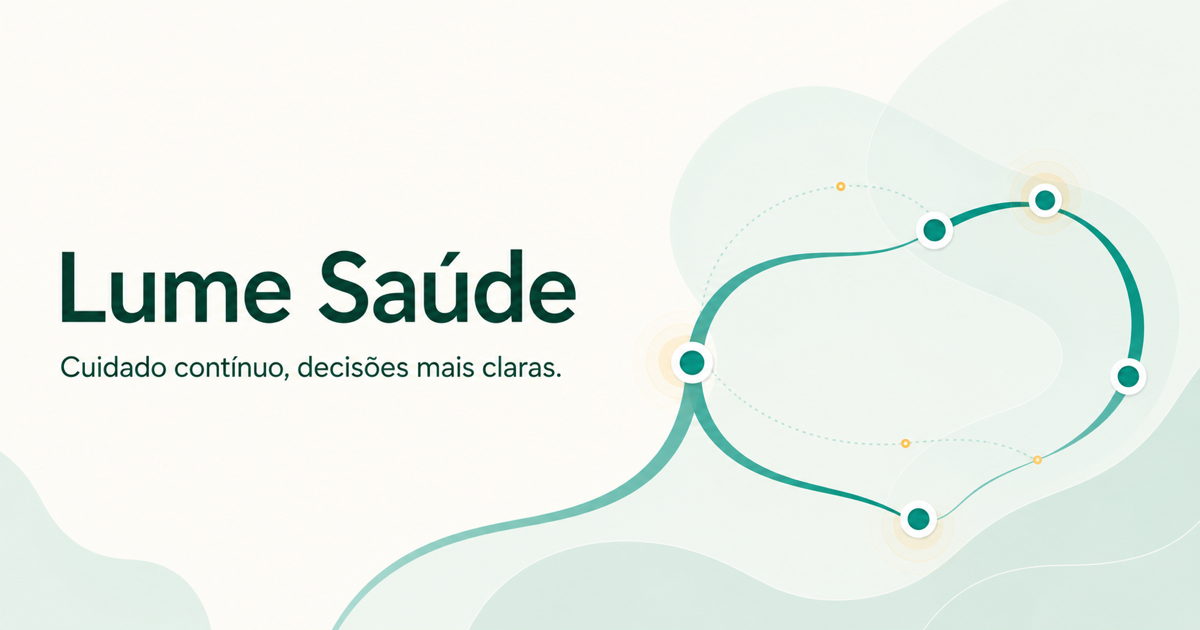
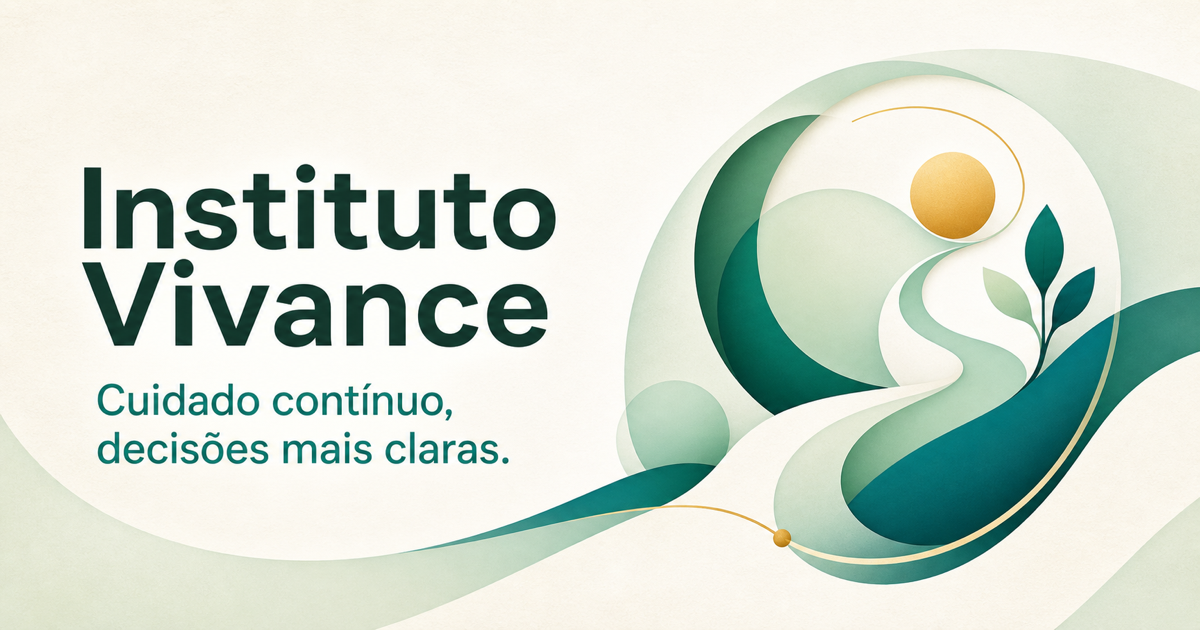
Rename product to Instituto Vivance

diff --git a/app/components/patient.tsx b/app/components/patient.tsx
@@ -157,7 +157,7 @@ function Today({
               {preVisitDone ? 'Seu objetivo já está no preparo da consulta' : 'Conte com sua voz o que você quer melhorar'}
             </h2>
             <p className="mt-2 max-w-2xl text-sm leading-6 text-[#60766f]">
-              A Lume conversa com você, faz perguntas básicas e monta um resumo que você revisa antes de enviar.
+              A assistente do Instituto Vivance conversa com você, faz perguntas básicas e monta um resumo que você revisa antes de enviar.
             </p>
           </div>
           <button type="button" onClick={onPreVisit} className="min-h-12 rounded-xl bg-[#0b7b68] px-5 text-sm font-bold text-white">
@@ -433,7 +433,7 @@ function PreVisitInterview({
         <div className="sticky top-0 z-10 flex items-center justify-between border-b border-[#e2ebe7] bg-white px-5 py-4 sm:px-7">
           <div>
             <p className="text-xs font-bold uppercase tracking-[0.12em] text-[#0b7b68]">Pré-consulta por voz</p>
-            <h2 id="previsit-title" className="mt-1 text-xl font-semibold">Conversa com a Lume</h2>
+            <h2 id="previsit-title" className="mt-1 text-xl font-semibold">Conversa com a assistente Vivance</h2>
           </div>
           <button type="button" onClick={onClose} aria-label="Fechar pré-consulta" className="grid size-11 place-items-center rounded-full border border-[#d7e3df] text-xl">×</button>
         </div>
@@ -497,7 +497,7 @@ function PreVisitInterview({
               <div className="rounded-2xl bg-[#f4f7f5] p-4"><p className="text-xs font-bold uppercase tracking-[0.1em] text-[#698078]">Organizado pela IA</p><p className="mt-2 text-sm leading-6">Priorizar sono e energia antes de aumentar metas do plano.</p></div>
             </div>
             <div className="mt-4 rounded-2xl border-l-4 border-[#e49d45] bg-[#fff8e9] p-4"><p className="text-sm font-bold text-[#6f4b0d]">Ponto para conversar</p><p className="mt-1 text-sm leading-6 text-[#805f24]">Despertares noturnos em quatro dias. Isto é um relato, não um diagnóstico.</p></div>
-            <details className="mt-5 rounded-2xl border border-[#dfe8e3] p-4"><summary className="cursor-pointer text-sm font-bold">Ver transcrição completa</summary><div className="mt-4 space-y-3 text-sm leading-6 text-[#60766f]">{questions.map((question, index) => <div key={question}><p className="font-bold text-[#17372f]">Lume: {question}</p><p>Marina: {answers[index]}</p></div>)}</div></details>
+            <details className="mt-5 rounded-2xl border border-[#dfe8e3] p-4"><summary className="cursor-pointer text-sm font-bold">Ver transcrição completa</summary><div className="mt-4 space-y-3 text-sm leading-6 text-[#60766f]">{questions.map((question, index) => <div key={question}><p className="font-bold text-[#17372f]">Assistente Vivance: {question}</p><p>Marina: {answers[index]}</p></div>)}</div></details>
             <div className="mt-6 flex flex-col-reverse gap-3 sm:flex-row sm:justify-end">
               <button type="button" onClick={() => setStage('intro')} className="min-h-12 rounded-xl border border-[#bfd4cd] px-5 text-sm font-bold text-[#0b6a5b]">Refazer conversa</button>
               <button type="button" onClick={onComplete} className="min-h-12 rounded-xl bg-[#0b7b68] px-5 text-sm font-bold text-white">Enviar para o Dr. Guilherme</button>

diff --git a/app/layout.tsx b/app/layout.tsx
@@ -14,10 +14,10 @@ const geistMono = Geist_Mono({
 
 export const metadata: Metadata = {
   metadataBase: new URL('https://lume-saude-prototipo.vitormilanez.chatgpt.site'),
-  title: 'Lume Saúde — Cuidado contínuo',
+  title: 'Instituto Vivance — Cuidado contínuo',
   description: 'Protótipo de acompanhamento longitudinal assistido por IA para emagrecimento e envelhecimento saudável.',
   openGraph: {
-    title: 'Lume Saúde',
+    title: 'Instituto Vivance',
     description: 'Cuidado contínuo, decisões mais claras.',
     type: 'website',
     locale: 'pt_BR',
@@ -26,13 +26,13 @@ export const metadata: Metadata = {
         url: '/og.png',
         width: 1200,
         height: 630,
-        alt: 'Lume Saúde — Cuidado contínuo, decisões mais claras.',
+        alt: 'Instituto Vivance — Cuidado contínuo, decisões mais claras.',
       },
     ],
   },
   twitter: {
     card: 'summary_large_image',
-    title: 'Lume Saúde',
+    title: 'Instituto Vivance',
     description: 'Cuidado contínuo, decisões mais claras.',
     images: ['/og.png'],
   },

diff --git a/app/components/shared.tsx b/app/components/shared.tsx
@@ -14,10 +14,10 @@ export function RoleHeader({ role, onRoleChange }: { role: Role; onRoleChange: (
       <div className="mx-auto flex h-[72px] max-w-[1540px] items-center justify-between gap-3 px-4 sm:px-5 lg:px-8">
         <div className="flex min-w-0 items-center gap-3">
           <div className="grid size-10 shrink-0 place-items-center rounded-2xl bg-[#0b7b68] text-sm font-bold text-white shadow-[0_8px_24px_rgba(11,123,104,0.2)]">
-            L
+            IV
           </div>
           <div className="min-w-0">
-            <p className="truncate text-[17px] font-bold tracking-[-0.02em]">Lume Saúde</p>
+            <p className="truncate text-[17px] font-bold tracking-[-0.02em]">Instituto Vivance</p>
             <p className="hidden text-xs font-medium text-[#698078] sm:block">Cuidado contínuo</p>
           </div>
         </div>
